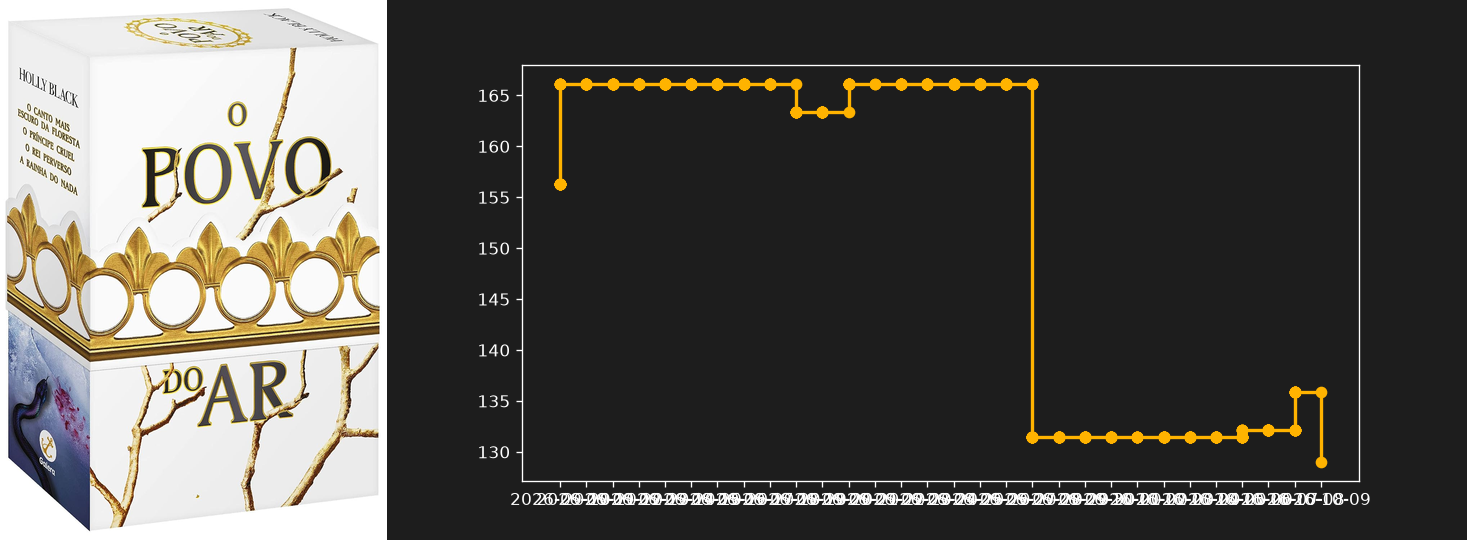
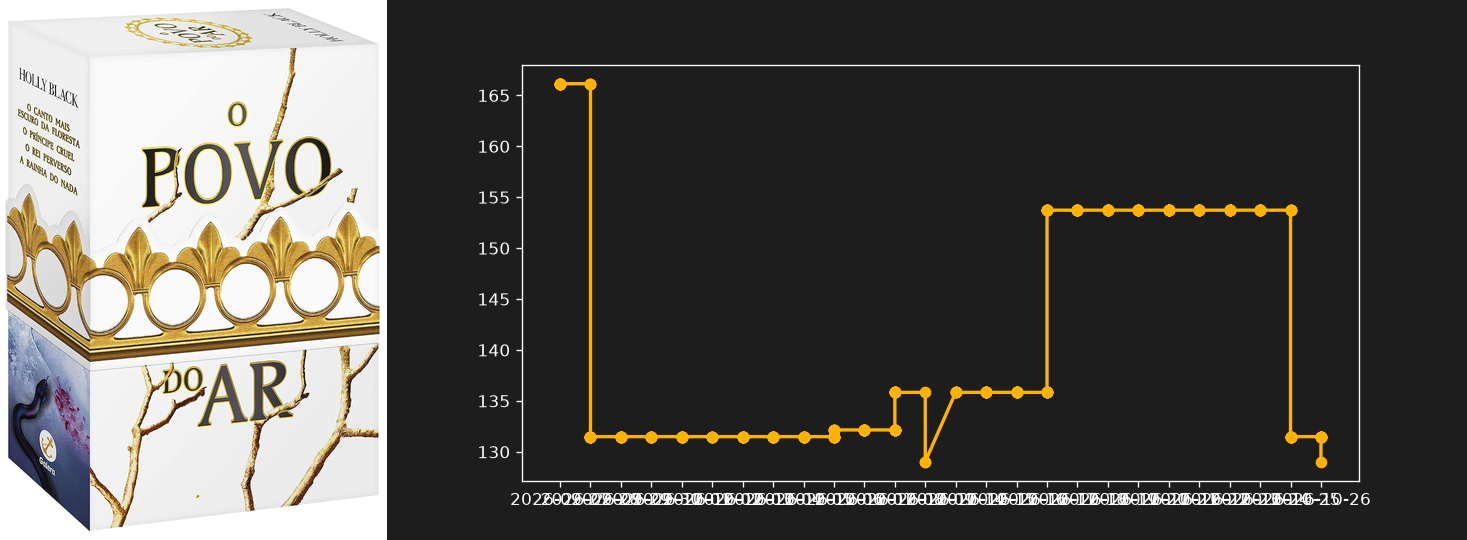
Atualizacao automatica: Novos precos e graficos

Changed region(s): [[0.3681, 0.1481, 0.9202, 0.8593], [0.3681, 0.8889, 0.9509, 0.9481]]

diff --git a/index.html b/index.html
@@ -48,7 +48,7 @@
             <div class="flex flex-col mt-auto mb-5">
                 <div class="flex items-baseline gap-2">
                     <span class="text-2xl font-bold text-white tracking-tight">R$ 223,92</span>
-                    <span class="text-sm text-gray-500 line-through">R$ 261,15</span>
+                    <span class="text-sm text-gray-500 line-through">R$ 261,07</span>
                 </div>
             </div>
             <a href="https://link.amazon/B0bxqDHXJ" target="_blank" rel="nofollow noopener" class="w-full flex items-center justify-center gap-2 py-2.5 rounded-xl bg-white/5 hover:bg-bardo-gold hover:text-bardo-dark text-sm font-bold text-gray-200 transition-all">Comprar na Amazon</a>
@@ -68,7 +68,7 @@
             <div class="flex flex-col mt-auto mb-5">
                 <div class="flex items-baseline gap-2">
                     <span class="text-2xl font-bold text-white tracking-tight">R$ 57,53</span>
-                    <span class="text-sm text-gray-500 line-through">R$ 60,23</span>
+                    <span class="text-sm text-gray-500 line-through">R$ 60,22</span>
                 </div>
             </div>
             <a href="https://link.amazon/B05C027gt" target="_blank" rel="nofollow noopener" class="w-full flex items-center justify-center gap-2 py-2.5 rounded-xl bg-white/5 hover:bg-bardo-gold hover:text-bardo-dark text-sm font-bold text-gray-200 transition-all">Comprar na Amazon</a>
@@ -148,7 +148,7 @@
             <div class="flex flex-col mt-auto mb-5">
                 <div class="flex items-baseline gap-2">
                     <span class="text-2xl font-bold text-white tracking-tight">R$ 118,35</span>
-                    <span class="text-sm text-gray-500 line-through">R$ 139,17</span>
+                    <span class="text-sm text-gray-500 line-through">R$ 139,13</span>
                 </div>
             </div>
             <a href="https://link.amazon/B04OFbHZF" target="_blank" rel="nofollow noopener" class="w-full flex items-center justify-center gap-2 py-2.5 rounded-xl bg-white/5 hover:bg-bardo-gold hover:text-bardo-dark text-sm font-bold text-gray-200 transition-all">Comprar na Amazon</a>
@@ -168,7 +168,7 @@
             <div class="flex flex-col mt-auto mb-5">
                 <div class="flex items-baseline gap-2">
                     <span class="text-2xl font-bold text-white tracking-tight">R$ 116,02</span>
-                    <span class="text-sm text-gray-500 line-through">R$ 121,88</span>
+                    <span class="text-sm text-gray-500 line-through">R$ 121,87</span>
                 </div>
             </div>
             <a href="https://link.amazon/B0bOFsgQ9" target="_blank" rel="nofollow noopener" class="w-full flex items-center justify-center gap-2 py-2.5 rounded-xl bg-white/5 hover:bg-bardo-gold hover:text-bardo-dark text-sm font-bold text-gray-200 transition-all">Comprar na Amazon</a>
@@ -248,7 +248,7 @@
             <div class="flex flex-col mt-auto mb-5">
                 <div class="flex items-baseline gap-2">
                     <span class="text-2xl font-bold text-white tracking-tight">R$ 414,48</span>
-                    <span class="text-sm text-gray-500 line-through">R$ 400,73</span>
+                    <span class="text-sm text-gray-500 line-through">R$ 400,77</span>
                 </div>
             </div>
             <a href="https://link.amazon/B0czAwuOp" target="_blank" rel="nofollow noopener" class="w-full flex items-center justify-center gap-2 py-2.5 rounded-xl bg-white/5 hover:bg-bardo-gold hover:text-bardo-dark text-sm font-bold text-gray-200 transition-all">Comprar na Amazon</a>
@@ -287,8 +287,8 @@
             <h3 class="text-base font-semibold text-gray-100 leading-snug line-clamp-2 mb-4 group-hover:text-bardo-gold transition-colors">Mistborn: O Império Final: Livro 1 de Mistborn</h3>
             <div class="flex flex-col mt-auto mb-5">
                 <div class="flex items-baseline gap-2">
-                    <span class="text-2xl font-bold text-white tracking-tight">R$ 54,87</span>
-                    <span class="text-sm text-gray-500 line-through">R$ 76,03</span>
+                    <span class="text-2xl font-bold text-white tracking-tight">R$ 54,22</span>
+                    <span class="text-sm text-gray-500 line-through">R$ 75,98</span>
                 </div>
             </div>
             <a href="https://link.amazon/B0bJ5jTSU" target="_blank" rel="nofollow noopener" class="w-full flex items-center justify-center gap-2 py-2.5 rounded-xl bg-white/5 hover:bg-bardo-gold hover:text-bardo-dark text-sm font-bold text-gray-200 transition-all">Comprar na Amazon</a>
@@ -308,7 +308,7 @@
             <div class="flex flex-col mt-auto mb-5">
                 <div class="flex items-baseline gap-2">
                     <span class="text-2xl font-bold text-white tracking-tight">R$ 55,07</span>
-                    <span class="text-sm text-gray-500 line-through">R$ 53,65</span>
+                    <span class="text-sm text-gray-500 line-through">R$ 53,66</span>
                 </div>
             </div>
             <a href="https://link.amazon/B075ASsRo" target="_blank" rel="nofollow noopener" class="w-full flex items-center justify-center gap-2 py-2.5 rounded-xl bg-white/5 hover:bg-bardo-gold hover:text-bardo-dark text-sm font-bold text-gray-200 transition-all">Comprar na Amazon</a>
@@ -328,7 +328,7 @@
             <div class="flex flex-col mt-auto mb-5">
                 <div class="flex items-baseline gap-2">
                     <span class="text-2xl font-bold text-white tracking-tight">R$ 54,98</span>
-                    <span class="text-sm text-gray-500 line-through">R$ 58,24</span>
+                    <span class="text-sm text-gray-500 line-through">R$ 58,23</span>
                 </div>
             </div>
             <a href="https://link.amazon/B05s4V4tS" target="_blank" rel="nofollow noopener" class="w-full flex items-center justify-center gap-2 py-2.5 rounded-xl bg-white/5 hover:bg-bardo-gold hover:text-bardo-dark text-sm font-bold text-gray-200 transition-all">Comprar na Amazon</a>
@@ -368,7 +368,7 @@
             <div class="flex flex-col mt-auto mb-5">
                 <div class="flex items-baseline gap-2">
                     <span class="text-2xl font-bold text-white tracking-tight">R$ 98,10</span>
-                    <span class="text-sm text-gray-500 line-through">R$ 109,40</span>
+                    <span class="text-sm text-gray-500 line-through">R$ 109,37</span>
                 </div>
             </div>
             <a href="https://link.amazon/B0g8PJdyP" target="_blank" rel="nofollow noopener" class="w-full flex items-center justify-center gap-2 py-2.5 rounded-xl bg-white/5 hover:bg-bardo-gold hover:text-bardo-dark text-sm font-bold text-gray-200 transition-all">Comprar na Amazon</a>
@@ -408,7 +408,7 @@
             <div class="flex flex-col mt-auto mb-5">
                 <div class="flex items-baseline gap-2">
                     <span class="text-2xl font-bold text-white tracking-tight">R$ 111,60</span>
-                    <span class="text-sm text-gray-500 line-through">R$ 123,68</span>
+                    <span class="text-sm text-gray-500 line-through">R$ 123,65</span>
                 </div>
             </div>
             <a href="https://link.amazon/B0cBFS3o1" target="_blank" rel="nofollow noopener" class="w-full flex items-center justify-center gap-2 py-2.5 rounded-xl bg-white/5 hover:bg-bardo-gold hover:text-bardo-dark text-sm font-bold text-gray-200 transition-all">Comprar na Amazon</a>
@@ -428,7 +428,7 @@
             <div class="flex flex-col mt-auto mb-5">
                 <div class="flex items-baseline gap-2">
                     <span class="text-2xl font-bold text-white tracking-tight">R$ 129,72</span>
-                    <span class="text-sm text-gray-500 line-through">R$ 144,20</span>
+                    <span class="text-sm text-gray-500 line-through">R$ 144,17</span>
                 </div>
             </div>
             <a href="https://link.amazon/B0f81O992" target="_blank" rel="nofollow noopener" class="w-full flex items-center justify-center gap-2 py-2.5 rounded-xl bg-white/5 hover:bg-bardo-gold hover:text-bardo-dark text-sm font-bold text-gray-200 transition-all">Comprar na Amazon</a>
@@ -468,7 +468,7 @@
             <div class="flex flex-col mt-auto mb-5">
                 <div class="flex items-baseline gap-2">
                     <span class="text-2xl font-bold text-white tracking-tight">R$ 56,41</span>
-                    <span class="text-sm text-gray-500 line-through">R$ 54,31</span>
+                    <span class="text-sm text-gray-500 line-through">R$ 54,32</span>
                 </div>
             </div>
             <a href="https://link.amazon/B0h9jyezR" target="_blank" rel="nofollow noopener" class="w-full flex items-center justify-center gap-2 py-2.5 rounded-xl bg-white/5 hover:bg-bardo-gold hover:text-bardo-dark text-sm font-bold text-gray-200 transition-all">Comprar na Amazon</a>
@@ -488,7 +488,7 @@
             <div class="flex flex-col mt-auto mb-5">
                 <div class="flex items-baseline gap-2">
                     <span class="text-2xl font-bold text-white tracking-tight">R$ 37,59</span>
-                    <span class="text-sm text-gray-500 line-through">R$ 35,70</span>
+                    <span class="text-sm text-gray-500 line-through">R$ 35,71</span>
                 </div>
             </div>
             <a href="https://link.amazon/B0eRR4Vm5" target="_blank" rel="nofollow noopener" class="w-full flex items-center justify-center gap-2 py-2.5 rounded-xl bg-white/5 hover:bg-bardo-gold hover:text-bardo-dark text-sm font-bold text-gray-200 transition-all">Comprar na Amazon</a>
@@ -508,7 +508,7 @@
             <div class="flex flex-col mt-auto mb-5">
                 <div class="flex items-baseline gap-2">
                     <span class="text-2xl font-bold text-white tracking-tight">R$ 70,85</span>
-                    <span class="text-sm text-gray-500 line-through">R$ 74,07</span>
+                    <span class="text-sm text-gray-500 line-through">R$ 74,06</span>
                 </div>
             </div>
             <a href="https://link.amazon/B0aqYDLFU" target="_blank" rel="nofollow noopener" class="w-full flex items-center justify-center gap-2 py-2.5 rounded-xl bg-white/5 hover:bg-bardo-gold hover:text-bardo-dark text-sm font-bold text-gray-200 transition-all">Comprar na Amazon</a>
@@ -528,7 +528,7 @@
             <div class="flex flex-col mt-auto mb-5">
                 <div class="flex items-baseline gap-2">
                     <span class="text-2xl font-bold text-white tracking-tight">R$ 152,87</span>
-                    <span class="text-sm text-gray-500 line-through">R$ 155,32</span>
+                    <span class="text-sm text-gray-500 line-through">R$ 155,31</span>
                 </div>
             </div>
             <a href="https://link.amazon/B01Lo4CLZ" target="_blank" rel="nofollow noopener" class="w-full flex items-center justify-center gap-2 py-2.5 rounded-xl bg-white/5 hover:bg-bardo-gold hover:text-bardo-dark text-sm font-bold text-gray-200 transition-all">Comprar na Amazon</a>
@@ -548,7 +548,7 @@
             <div class="flex flex-col mt-auto mb-5">
                 <div class="flex items-baseline gap-2">
                     <span class="text-2xl font-bold text-white tracking-tight">R$ 76,62</span>
-                    <span class="text-sm text-gray-500 line-through">R$ 83,48</span>
+                    <span class="text-sm text-gray-500 line-through">R$ 83,47</span>
                 </div>
             </div>
             <a href="https://link.amazon/B0fHxeIhM" target="_blank" rel="nofollow noopener" class="w-full flex items-center justify-center gap-2 py-2.5 rounded-xl bg-white/5 hover:bg-bardo-gold hover:text-bardo-dark text-sm font-bold text-gray-200 transition-all">Comprar na Amazon</a>
@@ -568,7 +568,7 @@
             <div class="flex flex-col mt-auto mb-5">
                 <div class="flex items-baseline gap-2">
                     <span class="text-2xl font-bold text-white tracking-tight">R$ 67,78</span>
-                    <span class="text-sm text-gray-500 line-through">R$ 75,33</span>
+                    <span class="text-sm text-gray-500 line-through">R$ 75,31</span>
                 </div>
             </div>
             <a href="https://link.amazon/B09kGQop8" target="_blank" rel="nofollow noopener" class="w-full flex items-center justify-center gap-2 py-2.5 rounded-xl bg-white/5 hover:bg-bardo-gold hover:text-bardo-dark text-sm font-bold text-gray-200 transition-all">Comprar na Amazon</a>
@@ -588,7 +588,7 @@
             <div class="flex flex-col mt-auto mb-5">
                 <div class="flex items-baseline gap-2">
                     <span class="text-2xl font-bold text-white tracking-tight">R$ 285,85</span>
-                    <span class="text-sm text-gray-500 line-through">R$ 251,28</span>
+                    <span class="text-sm text-gray-500 line-through">R$ 251,36</span>
                 </div>
             </div>
             <a href="https://link.amazon/B046QvncM" target="_blank" rel="nofollow noopener" class="w-full flex items-center justify-center gap-2 py-2.5 rounded-xl bg-white/5 hover:bg-bardo-gold hover:text-bardo-dark text-sm font-bold text-gray-200 transition-all">Comprar na Amazon</a>
@@ -608,7 +608,7 @@
             <div class="flex flex-col mt-auto mb-5">
                 <div class="flex items-baseline gap-2">
                     <span class="text-2xl font-bold text-white tracking-tight">R$ 189,91</span>
-                    <span class="text-sm text-gray-500 line-through">R$ 182,42</span>
+                    <span class="text-sm text-gray-500 line-through">R$ 182,44</span>
                 </div>
             </div>
             <a href="https://link.amazon/B037mPoB1" target="_blank" rel="nofollow noopener" class="w-full flex items-center justify-center gap-2 py-2.5 rounded-xl bg-white/5 hover:bg-bardo-gold hover:text-bardo-dark text-sm font-bold text-gray-200 transition-all">Comprar na Amazon</a>
@@ -628,7 +628,7 @@
             <div class="flex flex-col mt-auto mb-5">
                 <div class="flex items-baseline gap-2">
                     <span class="text-2xl font-bold text-white tracking-tight">R$ 44,00</span>
-                    <span class="text-sm text-gray-500 line-through">R$ 40,97</span>
+                    <span class="text-sm text-gray-500 line-through">R$ 40,98</span>
                 </div>
             </div>
             <a href="https://link.amazon/B0ja4Ste6" target="_blank" rel="nofollow noopener" class="w-full flex items-center justify-center gap-2 py-2.5 rounded-xl bg-white/5 hover:bg-bardo-gold hover:text-bardo-dark text-sm font-bold text-gray-200 transition-all">Comprar na Amazon</a>
@@ -648,7 +648,7 @@
             <div class="flex flex-col mt-auto mb-5">
                 <div class="flex items-baseline gap-2">
                     <span class="text-2xl font-bold text-white tracking-tight">R$ 51,88</span>
-                    <span class="text-sm text-gray-500 line-through">R$ 55,08</span>
+                    <span class="text-sm text-gray-500 line-through">R$ 55,07</span>
                 </div>
             </div>
             <a href="https://link.amazon/B0cIs9iDO" target="_blank" rel="nofollow noopener" class="w-full flex items-center justify-center gap-2 py-2.5 rounded-xl bg-white/5 hover:bg-bardo-gold hover:text-bardo-dark text-sm font-bold text-gray-200 transition-all">Comprar na Amazon</a>
@@ -668,7 +668,7 @@
             <div class="flex flex-col mt-auto mb-5">
                 <div class="flex items-baseline gap-2">
                     <span class="text-2xl font-bold text-white tracking-tight">R$ 42,71</span>
-                    <span class="text-sm text-gray-500 line-through">R$ 54,50</span>
+                    <span class="text-sm text-gray-500 line-through">R$ 54,48</span>
                 </div>
             </div>
             <a href="https://link.amazon/B0gViTEpL" target="_blank" rel="nofollow noopener" class="w-full flex items-center justify-center gap-2 py-2.5 rounded-xl bg-white/5 hover:bg-bardo-gold hover:text-bardo-dark text-sm font-bold text-gray-200 transition-all">Comprar na Amazon</a>
@@ -708,7 +708,7 @@
             <div class="flex flex-col mt-auto mb-5">
                 <div class="flex items-baseline gap-2">
                     <span class="text-2xl font-bold text-white tracking-tight">R$ 39,80</span>
-                    <span class="text-sm text-gray-500 line-through">R$ 37,71</span>
+                    <span class="text-sm text-gray-500 line-through">R$ 37,72</span>
                 </div>
             </div>
             <a href="https://link.amazon/B0jj9hCRe" target="_blank" rel="nofollow noopener" class="w-full flex items-center justify-center gap-2 py-2.5 rounded-xl bg-white/5 hover:bg-bardo-gold hover:text-bardo-dark text-sm font-bold text-gray-200 transition-all">Comprar na Amazon</a>
@@ -788,7 +788,7 @@
             <div class="flex flex-col mt-auto mb-5">
                 <div class="flex items-baseline gap-2">
                     <span class="text-2xl font-bold text-white tracking-tight">R$ 29,84</span>
-                    <span class="text-sm text-gray-500 line-through">R$ 40,10</span>
+                    <span class="text-sm text-gray-500 line-through">R$ 40,07</span>
                 </div>
             </div>
             <a href="https://link.amazon/B0aKkKOM2" target="_blank" rel="nofollow noopener" class="w-full flex items-center justify-center gap-2 py-2.5 rounded-xl bg-white/5 hover:bg-bardo-gold hover:text-bardo-dark text-sm font-bold text-gray-200 transition-all">Comprar na Amazon</a>
@@ -807,8 +807,8 @@
             <h3 class="text-base font-semibold text-gray-100 leading-snug line-clamp-2 mb-4 group-hover:text-bardo-gold transition-colors">Box O Povo do Ar</h3>
             <div class="flex flex-col mt-auto mb-5">
                 <div class="flex items-baseline gap-2">
-                    <span class="text-2xl font-bold text-white tracking-tight">R$ 131,49</span>
-                    <span class="text-sm text-gray-500 line-through">R$ 141,28</span>
+                    <span class="text-2xl font-bold text-white tracking-tight">R$ 129,03</span>
+                    <span class="text-sm text-gray-500 line-through">R$ 141,25</span>
                 </div>
             </div>
             <a href="https://link.amazon/B02R68ory" target="_blank" rel="nofollow noopener" class="w-full flex items-center justify-center gap-2 py-2.5 rounded-xl bg-white/5 hover:bg-bardo-gold hover:text-bardo-dark text-sm font-bold text-gray-200 transition-all">Comprar na Amazon</a>
@@ -848,7 +848,7 @@
             <div class="flex flex-col mt-auto mb-5">
                 <div class="flex items-baseline gap-2">
                     <span class="text-2xl font-bold text-white tracking-tight">R$ 496,29</span>
-                    <span class="text-sm text-gray-500 line-through">R$ 477,10</span>
+                    <span class="text-sm text-gray-500 line-through">R$ 477,15</span>
                 </div>
             </div>
             <a href="https://link.amazon/B04zvHdbV" target="_blank" rel="nofollow noopener" class="w-full flex items-center justify-center gap-2 py-2.5 rounded-xl bg-white/5 hover:bg-bardo-gold hover:text-bardo-dark text-sm font-bold text-gray-200 transition-all">Comprar na Amazon</a>
@@ -868,7 +868,7 @@
             <div class="flex flex-col mt-auto mb-5">
                 <div class="flex items-baseline gap-2">
                     <span class="text-2xl font-bold text-white tracking-tight">R$ 92,22</span>
-                    <span class="text-sm text-gray-500 line-through">R$ 93,42</span>
+                    <span class="text-sm text-gray-500 line-through">R$ 93,41</span>
                 </div>
             </div>
             <a href="https://link.amazon/B0fzjvtp7" target="_blank" rel="nofollow noopener" class="w-full flex items-center justify-center gap-2 py-2.5 rounded-xl bg-white/5 hover:bg-bardo-gold hover:text-bardo-dark text-sm font-bold text-gray-200 transition-all">Comprar na Amazon</a>
@@ -928,7 +928,7 @@
             <div class="flex flex-col mt-auto mb-5">
                 <div class="flex items-baseline gap-2">
                     <span class="text-2xl font-bold text-white tracking-tight">R$ 62,60</span>
-                    <span class="text-sm text-gray-500 line-through">R$ 60,07</span>
+                    <span class="text-sm text-gray-500 line-through">R$ 60,08</span>
                 </div>
             </div>
             <a href="https://link.amazon/B0jllWIXN" target="_blank" rel="nofollow noopener" class="w-full flex items-center justify-center gap-2 py-2.5 rounded-xl bg-white/5 hover:bg-bardo-gold hover:text-bardo-dark text-sm font-bold text-gray-200 transition-all">Comprar na Amazon</a>
@@ -948,7 +948,7 @@
             <div class="flex flex-col mt-auto mb-5">
                 <div class="flex items-baseline gap-2">
                     <span class="text-2xl font-bold text-white tracking-tight">R$ 160,31</span>
-                    <span class="text-sm text-gray-500 line-through">R$ 151,75</span>
+                    <span class="text-sm text-gray-500 line-through">R$ 151,77</span>
                 </div>
             </div>
             <a href="https://link.amazon/B0fmYiyYt" target="_blank" rel="nofollow noopener" class="w-full flex items-center justify-center gap-2 py-2.5 rounded-xl bg-white/5 hover:bg-bardo-gold hover:text-bardo-dark text-sm font-bold text-gray-200 transition-all">Comprar na Amazon</a>
@@ -968,7 +968,7 @@
             <div class="flex flex-col mt-auto mb-5">
                 <div class="flex items-baseline gap-2">
                     <span class="text-2xl font-bold text-white tracking-tight">R$ 212,70</span>
-                    <span class="text-sm text-gray-500 line-through">R$ 210,25</span>
+                    <span class="text-sm text-gray-500 line-through">R$ 210,26</span>
                 </div>
             </div>
             <a href="https://link.amazon/B00nzuqe1" target="_blank" rel="nofollow noopener" class="w-full flex items-center justify-center gap-2 py-2.5 rounded-xl bg-white/5 hover:bg-bardo-gold hover:text-bardo-dark text-sm font-bold text-gray-200 transition-all">Comprar na Amazon</a>
@@ -988,7 +988,7 @@
             <div class="flex flex-col mt-auto mb-5">
                 <div class="flex items-baseline gap-2">
                     <span class="text-2xl font-bold text-white tracking-tight">R$ 368,08</span>
-                    <span class="text-sm text-gray-500 line-through">R$ 322,51</span>
+                    <span class="text-sm text-gray-500 line-through">R$ 322,61</span>
                 </div>
             </div>
             <a href="https://link.amazon/B02mXXqIa" target="_blank" rel="nofollow noopener" class="w-full flex items-center justify-center gap-2 py-2.5 rounded-xl bg-white/5 hover:bg-bardo-gold hover:text-bardo-dark text-sm font-bold text-gray-200 transition-all">Comprar na Amazon</a>
